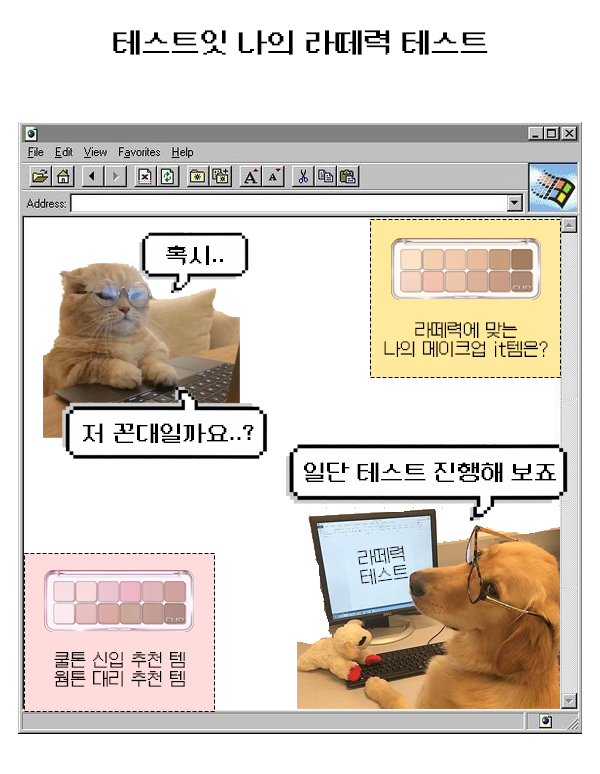
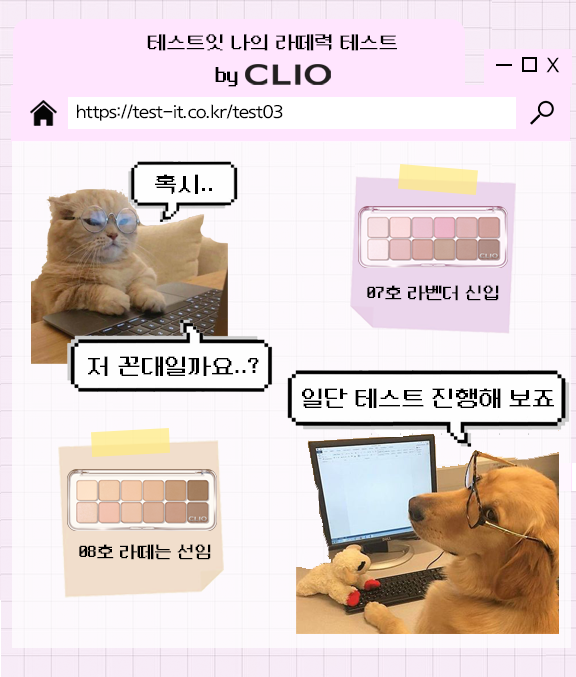
first commit

diff --git a/test03.html b/test03.html
@@ -12,7 +12,7 @@
     <meta http-equiv="X-UA-Compatible" content="IE=edge">
     <meta name="viewport" content="width=device-width, initial-scale=1.0">
 
-    <title>테스트잇 나의 라떼력 테스트</title>
+    <title>테스트잇X클리오 나의 라떼력 테스트</title>
     <meta name="description" content="라떼는 말이야~ 직장인 라떼력 지수 테스트?">
 <meta name="keywords" content="테스트잇,성격테스트,e성향,i성향,ei테스트,너t야테스트,t성향테스트,f성향테스트,tf테스트,연애mbti,연애성격테스트, 심리테스트, mbti테스트">
     <meta property="og:type" content="website"> 
@@ -147,7 +147,7 @@ article{
         display: block;
         margin: 0 auto;
         font-size: 20px;
-        background-color: #cecece;
+        background-color: #eaccff;
         color: black;
         border: none;
         padding: 10px 100px;
@@ -157,7 +157,7 @@ article{
       }
 
       #start-button:hover {
-        background-color: #cecece;
+        background-color: #e2b8ff;
       }
 
       #start-button:focus {
@@ -224,10 +224,9 @@ article{
 .choice {
   display: block;
   font-size: 15px;
-  background-color: #f8f0c2;
+  background-color: #ffe7fd;
   color: black;
-  border-color: #f8f0c2;
-  border: none;
+  border: 2px solid #000000; /* 수정된 부분 */
   font-weight: bold;
   padding: 10px 10px;
   width: 350px;
@@ -236,7 +235,6 @@ article{
   margin: 0 auto;
   margin-bottom: 10px;
 }
-
 .result button {
   /* 추가 스타일 */
   display: block;
@@ -297,6 +295,27 @@ article{
   background-color: #f0f0f0; /* 호버 상태 배경색 (원하는 색상으로 변경 가능) */
 }
     
+#loading {
+    display: none;
+    position: fixed;
+    top: 0;
+    left: 0;
+    width: 100%;
+    height: 100%;
+    background-color: rgba(255, 255, 255, 0.8);
+    justify-content: center;
+    align-items: center;
+    z-index: 999;
+}
+
+#loading img {
+    width: 100%; /* 로딩 이미지의 크기를 100%로 설정 */
+    max-width: 1000px; /* 로딩 이미지의 최대 크기를 조절하세요 */
+    height: auto;
+}
+
+    
+    
 /* 모바일 화면 스타일 */
 @media screen and (max-width: 767px) {
   .close-btn {
@@ -306,6 +325,9 @@ article{
     transform: translateX(-50%);
     /* 다른 모바일 화면용 스타일 설정들... */
   }
+       #loading img {
+        max-width: 50px; /* 모바일에서 로딩 이미지 최대 크기 조절 */
+    }
 }
 
 
@@ -366,8 +388,8 @@ article{
              <!-- Go to www.addthis.com/dashboard to customize your tools -->
                 <div class="addthis_inline_share_toolbox_ougq"></div>
                 
-        <button type="button" class="btn btn-info mt-3" onclick="location.href='test03.html'" style="font-size:large; font-weight: bold; color: black; background-color: rgb(255, 208, 208); border-color: rgb(255, 208, 208); width: 350px; height: 50px; margin: 0 auto; text-align: center;">다시 해보기</button>
-                <button type="button" class="btn btn-info mt-3" onclick="location.href='/'" style="font-size:large; font-weight: bold; color: black; background-color: rgb(255, 208, 208); border-color: rgb(255, 208, 208); width: 350px; height: 50px; margin: 0 auto;">다른 테스트 해보기</button>
+        <button type="button" class="btn btn-info mt-3" onclick="location.href='test03.html'" style="font-size:large; font-weight: bold; color: black; background-color: rgb(255, 231, 253); border-color: rgb(255, 208, 208); width: 350px; height: 50px; margin: 0 auto; text-align: center;">다시 해보기</button>
+                <button type="button" class="btn btn-info mt-3" onclick="location.href='/'" style="font-size:large; font-weight: bold; color: black; background-color: rgb(255, 231, 253); border-color: rgb(255, 208, 208); width: 350px; height: 50px; margin: 0 auto;">다른 테스트 해보기</button>
          
              <!-- 팝업 배너 -->
 <div id="popupBanner" class="popupBanner" style="display:none;">
@@ -380,49 +402,51 @@ article{
           
       </div>
 
-
+  <div id="loading">
+        <img src="loading03.png" alt="로딩 중...">
+    </div>
     
     <script>
       // JavaScript 코드
    var questions = [
   {
-    question: "<a href='' target='_blank'><img class='question-image' src='banner03.png'></a><br><br><br>들어온 지 얼마 안 된 신입이<br><br>자꾸 호칭 실수를 한다",
+    question: "<a href='' target='_blank'><img class='question-image' src='banner03-1.png'></a><br><br><br>들어온 지 얼마 안 된 신입이<br><br>자꾸 호칭 실수를 한다",
     choices: ["호칭 정도는 제대로 알아야 하지 않나?", "아직 입에 안 붙나 보다 그럴 수 있지"]
   },
         {
-          question: "<a href='' target='_blank'><img class='question-image' src='banner03.png'></a><br><br><br>업무 인수인계를 하고 있는데<br><br>아무것도 적지 않고 듣기만 하는 신입",
-          choices: ["이러고 나중에 또 물어볼 거 같은데..", "이해가 빠른 친구네"]
+          question: "<a href='' target='_blank'><img class='question-image' src='banner03-2.png'></a><br><br><br>업무 인수인계를 하고 있는데<br><br>아무것도 적지 않고 듣기만 하는 신입",
+          choices: ["이러고 나중에 또 물어볼 거 같은데..", "이해가 빠른 친구인가 보다"]
         },
         {
-          question: "<a href='' target='_blank'><img class='question-image' src='banner03.png'></a><br><br><br>신입 환영 회식 자리<br><br>분위기가 너무 조용하다",
-          choices: ["신입에게 건배사를 시킨다", "힘든 일은 없는지 물어본다"]
+          question: "<a href='' target='_blank'><img class='question-image' src='banner03-3.png'></a><br><br><br>신입 환영 회식 자리<br><br>분위기가 너무 조용하다",
+          choices: ["신입에게 건배사를 시킨다", "조심스럽게 대화 주제를 먼저 꺼낸다"]
         },
    {
-          question: "<a href='' target='_blank'><img class='question-image' src='banner03.png'></a><br><br><br>신입들에게 커피 4잔을 사 오라고 시켰는데<br><br>둘이 가서 사 온다고 한다",
+          question: "<a href='' target='_blank'><img class='question-image' src='banner03-1.png'></a><br><br><br>신입들에게 커피 4잔을 사 오라고 시켰는데<br><br>둘이 가서 사 온다고 한다",
           choices: ["충분히 혼자 사 올 수 있지 않나?", "그래 갔다 오면서 머리 좀 식혀라"]
         },
    {
-          question: "<a href='' target='_blank'><img class='question-image' src='banner03.png'></a><br><br><br>출근 시간 9시<br><br>신입이 딱 9시에 맞춰서 출근을 한다",
+          question: "<a href='' target='_blank'><img class='question-image' src='banner03-2.png'></a><br><br><br>출근 시간 9시<br><br>신입이 딱 9시에 맞춰서 출근을 한다",
           choices: ["10분이라도 일찍 오지", "지각만 안 하면 되지 뭘"]
         },
    {
-          question: "<a href='' target='_blank'><img class='question-image' src='banner03.png'></a><br><br><br>신입에게 자료 보내달라고 메일을 보냈는데<br><br>정말 딱 자료만 보내왔다",
+          question: "<a href='' target='_blank'><img class='question-image' src='banner03-3.png'></a><br><br><br>신입에게 자료 보내달라고 메일을 보냈는데<br><br>정말 딱 자료만 보내왔다",
           choices: ["예의상 인사말이라도 넣지 않나", "자료가 필요한 거였기 때문에 괜찮다"]
         },
    {
-          question: "<a href='' target='_blank'><img class='question-image' src='banner03.png'></a><br><br><br>동기가 놀러 왔는지<br><br>자리에서 동기와 떠드는 신입",
+          question: "<a href='' target='_blank'><img class='question-image' src='banner03-1.png'></a><br><br><br>동기가 놀러 왔는지<br><br>자리에서 동기와 떠드는 신입",
           choices: ["떠드는 소리가 거슬린다", "바쁠 때만 아니면 괜찮다"]
         },
    {
-          question: "<a href='' target='_blank'><img class='question-image' src='banner03.png'></a><br><br><br>신입에게 회의한다고 들어오라고 했는데<br><br>슬리퍼를 질질 끌고 들어온다",
+          question: "<a href='' target='_blank'><img class='question-image' src='banner03-2.png'></a><br><br><br>신입에게 회의한다고 들어오라고 했는데<br><br>슬리퍼를 질질 끌고 들어온다",
           choices: ["태도가 영...", "그럴 수도 있지 뭐"]
         },
    {
-          question: "<a href='' target='_blank'><img class='question-image' src='banner03.png'></a><br><br><br>부서 일이 많아 다들 야근하는데<br><br>6시 땡 하자마자 퇴근한다고 가는 신입",
-          choices: ["퇴근시간 맞긴 한데 기분이 좀 그렇네", "있어봤자 크게 도움 안 되는데 뭐 어때"]
+          question: "<a href='' target='_blank'><img class='question-image' src='banner03-3.png'></a><br><br><br>부서 일이 많아 다들 야근하는데<br><br>6시 땡 하자마자 퇴근한다고 가는 신입",
+          choices: ["퇴근시간 맞긴 한데 기분이 좀 그렇네", "얼른 집에 가고 싶겠지. 빨리 끝내고 나도 가자"]
         },
    {
-          question: "<a href='' target='_blank'><img class='question-image' src='banner03.png'></a><br><br><br>신입에게 안녕하세요 인사를 건넸는데<br><br>네~라고 한다",
+          question: "<a href='' target='_blank'><img class='question-image' src='banner03-1.png'></a><br><br><br>신입에게 안녕하세요 인사를 건넸는데<br><br>네~라고 한다",
           choices: ["인사는 인사로 받는 게 맞지 않나", "네~했으면 됐지"]
         }
       ];
@@ -457,6 +481,7 @@ article{
     document.getElementById("test").style.display = "block";
     document.getElementById("result").style.display = "none"; // 결과 화면 감추기
     showQuestion();
+         showLoading();
     closePopupBanner(); // 이 부분을 추가
     showPopup(); // 수정된 부분
 }
@@ -485,6 +510,7 @@ article{
 
             currentQuestionIndex++;
             if (currentQuestionIndex === questions.length) {
+                 showLoading();
                 showResult();
             } else {
                 showQuestion();
@@ -500,7 +526,12 @@ function closePopupBanner() {
   document.getElementById("result").style.display = "block";
 }
 
-
+  function showLoading() {
+            document.getElementById("loading").style.display = "flex";
+            setTimeout(function () {
+                document.getElementById("loading").style.display = "none";
+            }, 3000); // 3초 후에 로딩화면을 감추기
+        }
         function resetTest() {
     currentQuestionIndex = 0;
     score = 0;
